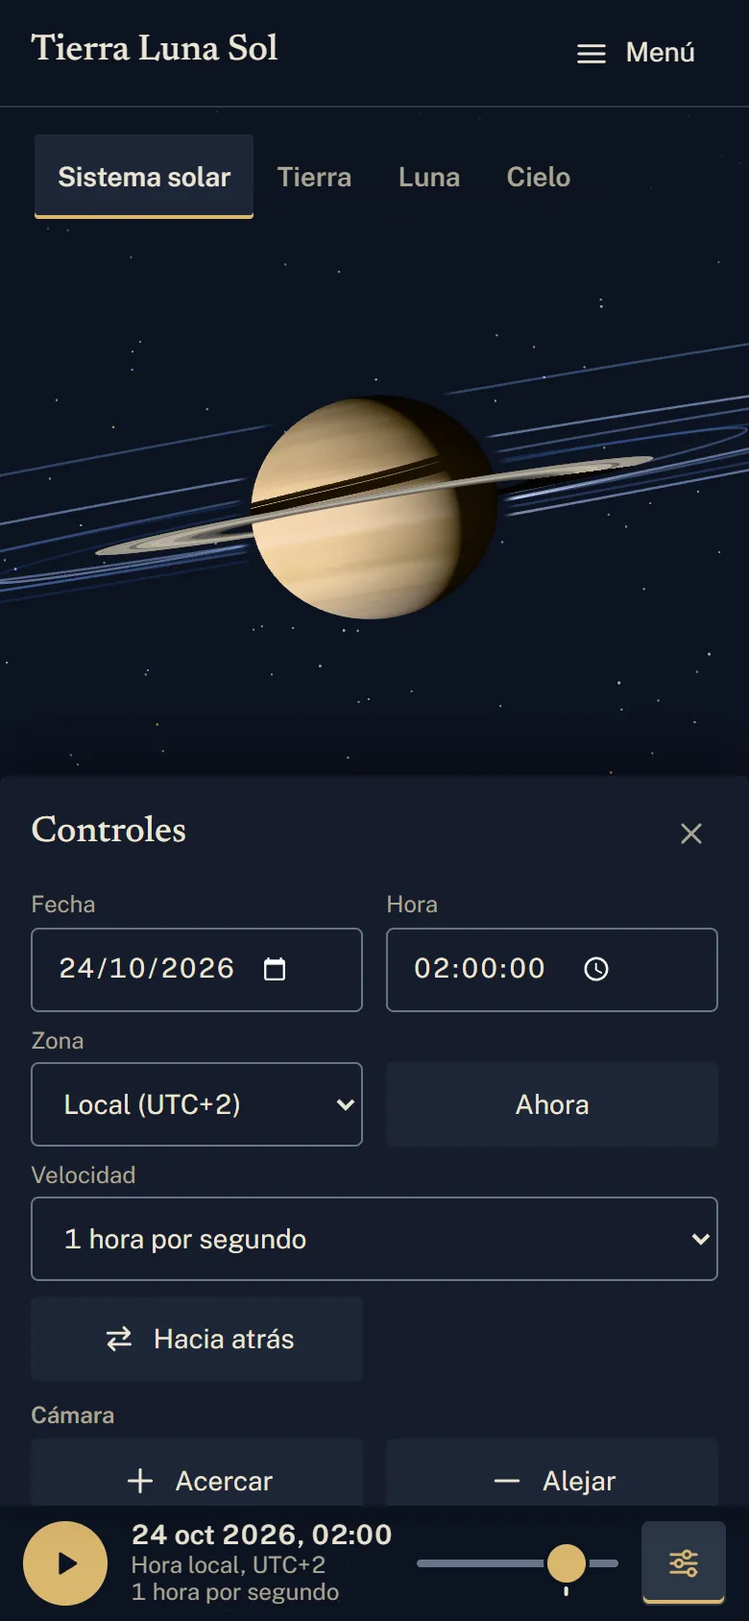
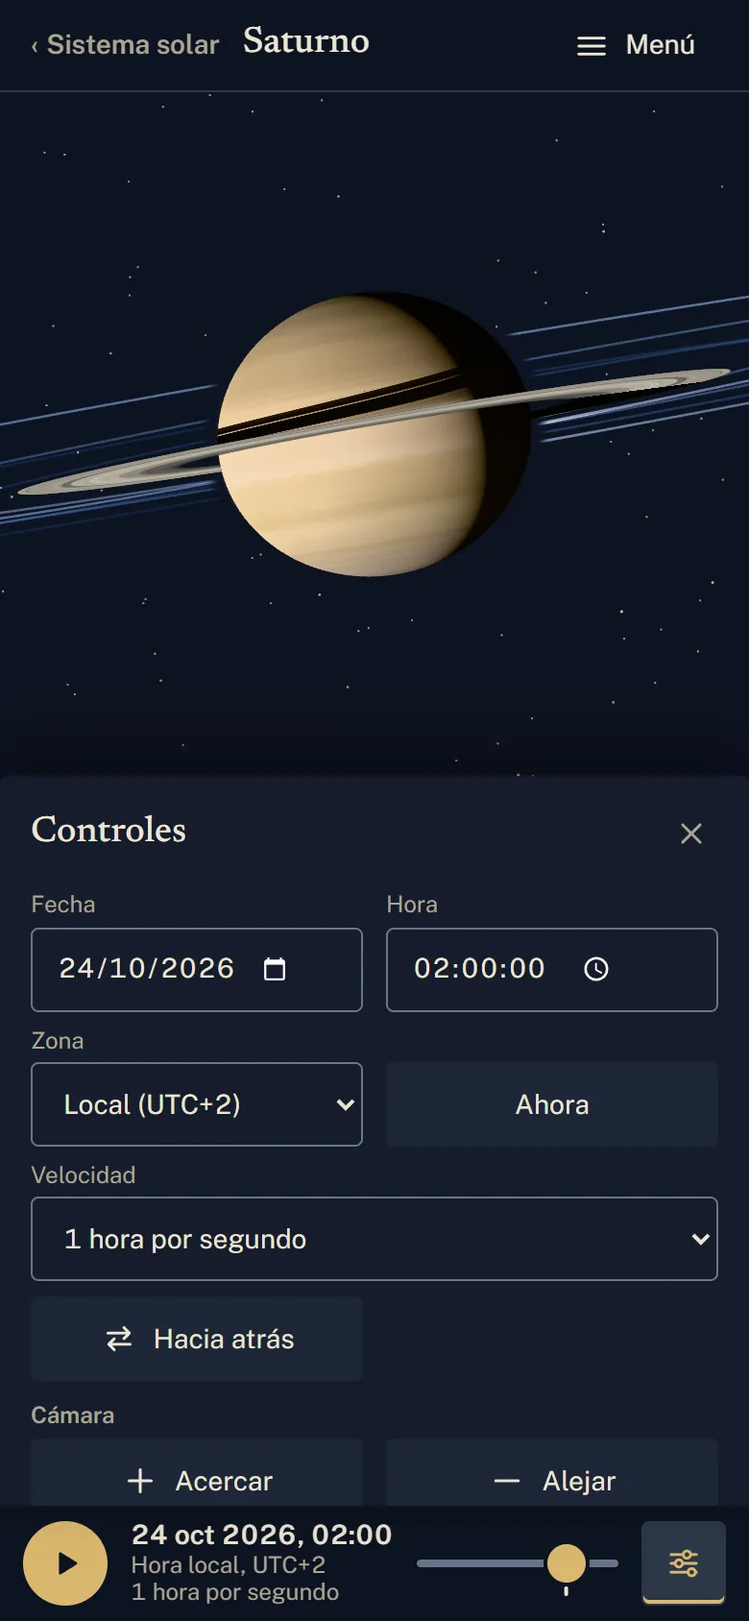
docs: la ficha del móvil, menos invasora (decisión de Iván del 08-11): el informe, DISENO, la adenda y las capturas
- Informe: la sección de la decisión (qué se ha hecho en cada punto, con sus pruebas, y lo encontrado),
  §2 con los criterios nuevos (la barra ≤ 12 %, la zona útil ≥ 70 % con un cuerpo a 390 y 768, el
  cuerpo centrado en el hueco), §4, §6 (747 tests, 130 de 130 e2e, JS inicial 312,64 kB, código propio
  inicial 12,07 kB de 15), §6.2 con la ficha en reposo y el centro del cuerpo, §7, §11 y §12.
- Adenda D47, §4: la línea del cambio del 08-11, que sustituye al criterio de la hoja en reposo.
- DISENO: la ficha (la barra fina y la hoja a demanda) y la franja de arriba, con su boceto.
- Capturas de después del móvil y la tableta, rehechas; nuevas, con la hoja abierta desde la barra.

diff --git a/docs/informes/fase-9c.md b/docs/informes/fase-9c.md
@@ -1,8 +1,8 @@
 # Informe: Fase 9c (la interfaz)
 
 - **Rama:** `fase-9c-interfaz` (desde `main` en `0963b9f`), en el worktree `.claude/worktrees/fase-9c-interfaz-bf1527`
-- **Fecha:** 2026-11-06 (preparación) a 2026-11-08 (las siete tareas, el cierre, la revisión, la decisión de Iván del 07-11 y la tanda de arreglos de la crítica repetida, por decisión de Iván del 08-11)
-- **Estado:** **lista para revisión, sin fusionar** (adenda, §5.3: la sesión de revisión repasa la fase y repite la crítica de impeccable antes de que Iván autorice la fusión). Hechas las tareas 9c.1–9c.7; la revisión por subagente (`docs/revisiones/fase-9c.md`), aplicada, con la decisión de Iván del 07-11 sobre el selector («Respuesta a la revisión», al final); la crítica repetida (`docs/revisiones/fase-9c-critica.md`, 31/40), con sus problemas 1 a 6 y los rápidos arreglados («Respuesta a la crítica», al final; lo demás, al backlog: §10); `npm run check` y los e2e, en verde.
+- **Fecha:** 2026-11-06 (preparación) a 2026-11-08 (las siete tareas, el cierre, la revisión, la decisión de Iván del 07-11, la tanda de arreglos de la crítica repetida y la ficha del móvil, menos invasora: las dos, decisiones de Iván del 08-11)
+- **Estado:** **lista para revisión, sin fusionar** (adenda, §5.3: la sesión de revisión repasa la fase y repite la crítica de impeccable antes de que Iván autorice la fusión). Hechas las tareas 9c.1–9c.7; la revisión por subagente (`docs/revisiones/fase-9c.md`), aplicada, con la decisión de Iván del 07-11 sobre el selector («Respuesta a la revisión», al final); la crítica repetida (`docs/revisiones/fase-9c-critica.md`, 31/40), con sus problemas 1 a 6 y los rápidos arreglados («Respuesta a la crítica», al final; lo demás, al backlog: §10); la ficha del móvil, una barra fina con la hoja a demanda y una sola franja arriba (decisión de Iván del 08-11, al final); `npm run check` y los e2e, en verde.
 
 ## 0. Plan
 
@@ -110,16 +110,16 @@ Los de la adenda (`docs/decisiones/FASE-9c-INTERFAZ.md`, §4), medidos con `scri
 | Criterio | ✅/❌ | Evidencia |
 |---|---|---|
 | **Zona útil del 3D:** 390 × 844, ≥ 65 % en `/` y ≥ 50 % en Tierra, Luna y Cielo; 768 × 1024, ≥ 75 % y ≥ 65 %; 1440 × 900, ≥ 82 % y ≥ 75 % | ✅ | 390: `/` 83,5 % (antes 46,7); Tierra 86,0, Luna 86,2 y Cielo 60,2 % (antes 25,2, 27,4 y 27,7). 768: `/` 87,7 % (59,7); Tierra 84,4, Luna 84,4 y Cielo 69,6 % (40,0, 43,2 y 43,1). 1440: `/` 90,7 % (74,5); Tierra 82,2, Luna 85,9 y Cielo 78,0 % (63,6, 65,9 y 64,1) |
-| **Controles visibles:** en escritorio, ≤ 24 en `/` y ≤ 32 con un cuerpo elegido (≤ 30 en la adenda; ≤ 32 por la decisión de Iván del 07-11, §4); en el móvil, ≤ 16 en cualquier vista | ✅ (la tableta, con el de escritorio: §4) | 1440: 23 en `/`; con un cuerpo, Saturno 32 (30 con la ficha cerrada), Tierra 32, Luna 30 y el Cielo con Saturno 32; el Cielo sin cuerpo, 25 (§4) (antes 37 en `/`, 46 con Saturno, 47 en Tierra, 45 en Luna y 41 en el Cielo). 1024: 23 en `/`; con un cuerpo, Saturno 32 (30 con la ficha cerrada), Tierra 32, Luna 30 y el Cielo con Saturno 32; el Cielo sin cuerpo, 25 (§4). Móvil (390): `/` 16, Saturno 12 (14 con la ficha cerrada), Tierra 13, Luna 14, Cielo 12 (12 con Saturno) y, con «Más» abierto, Tierra 17 y Luna 17 (antes 22, 8, 30, 30 y 26). Tableta (768): de 12 a 28, dentro de los de escritorio; en `/`, 20 Con los arreglos de la crítica (08-11), las mismas cifras: ninguno añade una parada. |
-| **La hoja del cuerpo en el móvil, en reposo:** ≤ 45 % de la pantalla, con el cuerpo visible y la pausa a mano (e2e) | ✅ | 37,3 % a 390 y 28,6 % a 768 (antes 60,2 y 62,3 %, sin la pausa). e2e `movil.spec.ts`, «la ficha, en reposo…»: ≤ 45 %, el encuadre por encima de la hoja (el cuerpo, en el hueco libre) y reproducir pulsable, también con la hoja subida |
+| **Controles visibles:** en escritorio, ≤ 24 en `/` y ≤ 32 con un cuerpo elegido (≤ 30 en la adenda; ≤ 32 por la decisión de Iván del 07-11, §4); en el móvil, ≤ 16 en cualquier vista | ✅ (la tableta, con el de escritorio: §4) | 1440: 23 en `/`; con un cuerpo, Saturno 32 (30 con la ficha cerrada), Tierra 32, Luna 30 y el Cielo con Saturno 32; el Cielo sin cuerpo, 25 (§4) (antes 37 en `/`, 46 con Saturno, 47 en Tierra, 45 en Luna y 41 en el Cielo). 1024: 23 en `/`; con un cuerpo, Saturno 32 (30 con la ficha cerrada), Tierra 32, Luna 30 y el Cielo con Saturno 32; el Cielo sin cuerpo, 25 (§4). Móvil (390): `/` 16, Saturno 12 (14 con la ficha cerrada), Tierra 13, Luna 14, Cielo 12 (12 con Saturno) y, con «Más» abierto, Tierra 17 y Luna 17 (antes 22, 8, 30, 30 y 26). Tableta (768): de 12 a 28, dentro de los de escritorio; en `/`, 20 Con los arreglos de la crítica (08-11), las mismas cifras: ninguno añade una parada. En el móvil y la tableta, con un cuerpo elegido y la barra fina (decisión del 08-11): 7 (antes 12); con la ficha cerrada, 9 a 390 (antes 14). |
+| **La ficha del cuerpo en el móvil, en reposo** (cambio del 08-11, decisión de Iván, que sustituye a «la hoja ≤ 45 %»; adenda, §4): con un cuerpo elegido, la barra fina ≤ 12 % de la pantalla; la interfaz en reposo tapa ≤ 30 % (zona útil del 3D ≥ 70 %) a 390 y a 768; el cuerpo, centrado en el hueco libre; la pausa, a mano (e2e) | ✅ | La barra: 6,9 % a 390 y 5,7 % a 768 (la hoja en reposo de antes: 37,3 y 28,6 %; antes de la fase, 60,2 y 62,3 %). Con Saturno elegido, la zona útil: 90,3 % a 390 y 90,9 % a 768 (con la hoja en reposo, 54,0 y 65,2 %); por alto, la franja de arriba, la barra y la barra de tiempo tapan el 19,7 % y el 16,2 %. El centro del cuerpo en el hueco libre, en alto: +0,9 % a 390 y +1,8 % a 768 (en ancho, −4,5 y −4,6 %: el lado en sombra del planeta no brilla; en escritorio, igual, de −4,0 a −5,6 %). La hoja, abierta: 35,4 % a 390 y 27,1 % a 768, sin nada tapado. e2e `movil.spec.ts`: la barra (≤ 12 %, el encuadre hasta su borde y la pausa a mano), la hoja con un toque, con el dedo y con el teclado, el foco y la franja de arriba |
 | **Los gestos:** el e2e de 9c.1 en verde a 390 y 768 | ✅ | `e2e/gestos.spec.ts`: 2 de 2 (arrastrar sobre el título gira la escena y no selecciona texto) |
 | **Sin solapes:** el script de 9c.4 sin fallos en los cuatro tamaños | ✅ | 0 controles tapados en las 28 vistas (390, 768, 1024 y 1440, también con un cuerpo y la ficha cerrada) y 0 en los 30 estados con «Controles», el Índice o «Más» abiertos (antes, de 12 a 26 tapados con «Controles» abierto en el móvil y en la tableta). 0 recortes: ningún contenedor desbordado, ningún control recortado y ningún lugar del selector cortado (revisión, hallazgos 6, 7 y 18) Con los arreglos de la crítica, igual (el script ya no cuenta como desbordadas las capas de etiquetas de la escena, que recortan a propósito lo que sale del lienzo: §6.2). |
 | **El velo de abajo** (9c.2): ≤ 10 % del lienzo | ✅ | 8,6 % a 390, 7,0 % a 768, 9,6 % a 1024 × 768 y 8,1 % a 1440 (antes, el 19–23 %; a 1024 × 768, el 10,7 % en la primera ronda: §5.5) |
 | **Zonas táctiles:** 44 × 44 en el explorador en el móvil y ≥ 24 × 24 en todas las páginas; nada legible por debajo de 11 px | ✅ en esta fase; ❌ en dos páginas de la otra sesión (§12) | El explorador: ninguna zona pequeña en los cuatro tamaños. Las páginas de esta fase (`/planetas`, `/planetas/marte`, `/lunas`, `/lunas/titan`, `/luna`, `/sol`, `/eclipses`): ninguna (antes, las notas «Fuente N» de 24 × 22). «Sobre el proyecto» (los enlaces «Fase N», 16 px de alto) y los créditos (las licencias, 19 px) son de la 9b. Texto de menos de 11 px: ninguno (antes, los nombres latinos de las constelaciones, 9 px, y «hoy», 10) |
 | **axe sin violaciones en todas las rutas;** el teclado y el lector de pantalla, como hoy o mejor (el orden de Tab, el foco visible y nunca tapado, las alternativas de un solo puntero) | ✅ | `e2e/accesibilidad.spec.ts` (las 40 rutas, los estados del explorador y el explorador en marcha): sin violaciones graves ni críticas. El Tab no se para en lo tapado (`movil.spec.ts`, con la ficha y con «Controles» abiertos); el foco vuelve a «Controles» tras la vista limpia (`camara.spec.ts`); el enlace de la autoría plegada vuelve a verse al recibir el foco; acercar y alejar, con botones en la cámara (escritorio) y en «Controles» (móvil) (`maquetacion.spec.ts`) |
 | **El recorrido:** e2e de que arranca la primera vez; de que «Saltar», `Esc` y un toque lo paran; de que no arranca con movimiento reducido, con `?captura=1` ni con enlaces profundos | ✅ | `e2e/recorrido.spec.ts`: 6 de 6 (además, llega al final y no llena el historial; con una red lenta no arranca si ya se ha elegido un cuerpo; al saltarlo con Intro, el foco no se pierde). Con la crítica del 08-11: «Saltar» y `Esc` llevan a la vista general en marcha (sin «Saltar el viaje» ni anillo de foco tras el ratón), un clic o la rueda lo paran donde está, cada parada lleva su rótulo, la Luna solo si se ve y, al final, «Ahora tú: elige un cuerpo abajo…» |
-| **El presupuesto:** `npm run check` en verde, con el JS inicial y el código propio inicial (15 kB) sin subirlo | ✅ | §6: JS inicial 311,02 kB (aviso a 320; 310,14 antes de la crítica: la placa del recorrido proyecta su botón); código propio inicial 10,96 kB de 15 (antes 14,88). Sin avisos de presupuesto (tampoco de los estilos por componente) |
-| **Capturas antes y después** a 390, 768 y 1440: la portada (también durante el recorrido), Saturno con la hoja en el móvil, la Tierra, la Luna y el Cielo, una ficha completa, `/lunas` y `/eclipses` | ✅ | §7: 24 de antes y 33 de después (rehechas el 08-11 con los arreglos de la crítica; tres de ellas, nuevas: «Controles» abierto con Saturno) |
+| **El presupuesto:** `npm run check` en verde, con el JS inicial y el código propio inicial (15 kB) sin subirlo | ✅ | §6: JS inicial 312,64 kB (aviso a 320; 311,02 antes de la ficha del móvil y 310,14 antes de la crítica); código propio inicial 12,07 kB de 15 (10,96 antes de la ficha del móvil: la franja de la cabecera y `ExplorerFocus`; antes de la fase, 14,88). Sin avisos de presupuesto (tampoco de los estilos por componente) |
+| **Capturas antes y después** a 390, 768 y 1440: la portada (también durante el recorrido), Saturno con la hoja en el móvil, la Tierra, la Luna y el Cielo, una ficha completa, `/lunas` y `/eclipses` | ✅ | §7: 24 de antes y 35 de después (rehechas el 08-11 con la crítica y con la ficha del móvil; nuevas: «Controles» abierto y, en el móvil y la tableta, la hoja abierta desde la barra) |
 | **El detector de impeccable** (`detect --json src/app`), sin hallazgos reales nuevos | ✅ | 6 hallazgos `broken-image`, los mismos falsos positivos de la crítica: `<img>` con `[src]` o `[ngSrc]` de Angular, que el análisis estático lee como «sin src» (`body-chips.html` ×3, uno más que en la primera ronda porque la pastilla de la luna está en las dos filas; `body-detail-page.html`; `body-card.ts` ×2). Repetido el 08-11, tras los arreglos de la crítica: los mismos 6. El motor de la caché (0.1.16), sin descargas |
 | **`docs/DISENO.md`:** los bocetos de escritorio y móvil y la navegación, al día | ✅ | Las reglas de la interfaz (fase 9c), la navegación y los bocetos del visor en escritorio y en el móvil y de la ficha completa; con la decisión de Iván del 07-11, las reglas del selector (planetas y lunas, distintos), el boceto de escritorio con las dos filas y uno del móvil con la fila del sistema y su raya; con la crítica del 08-11, el recorrido y las pistas, los avisos sobre el 3D, lo plegado que se despliega con el foco, el año como mando, «Controles» en el encuadre y como hoja baja (y en horizontal, a la derecha), la placa de los nombres y las migas |
 | **El rendimiento (FPS)** no se mide aquí | — | Se repite al cerrar el bloque, con el PC libre (la otra sesión lo carga) |
@@ -156,6 +156,7 @@ Todas para cumplir los criterios de la adenda sin quitar ninguna función; las d
 - **El Cielo sin cuerpo, en escritorio, con 25 controles:** el tope de 24 es el de `/`; en el Cielo, «Usar mi ubicación», otra vez un botón (hallazgo 5), suma uno a los 24 de antes.
 - **La línea de autoría, solo en la portada**, la «primera pantalla» de la decisión 3. En todas las vistas, el Cielo del teléfono pasaba a 17 controles.
 - **Lo técnico de las fichas, separado (no plegado):** después de lo esencial, bajo el rótulo «Datos técnicos». La adenda deja elegir («plegado o separado»), y así la ficha se sigue leyendo entera sin JavaScript.
+- **La ficha del móvil, una barra fina (decisión de Iván del 08-11; una línea en la adenda, §4):** el criterio de la hoja en reposo (≤ 45 %) pasa a ser otro: con un cuerpo elegido, la barra fina, ≤ 12 % de la pantalla; la interfaz en reposo tapa como mucho el 30 % (zona útil del 3D ≥ 70 %) a 390 y a 768; y el cuerpo, centrado en el hueco libre. Arriba, con un cuerpo elegido, una sola franja («‹ Sistema solar», el nombre y «Menú») en lugar de la cabecera y las pestañas. Para que la cabecera del sitio sepa el cuerpo, `ExplorerFocus` (sin dependencias) pasa de `features/explorer-ui/` a `core/`: el JS inicial sube 1,62 kB y el código propio inicial, de 10,96 a 12,07 kB (de 15).
 - **`--measure` pasa de 68ch a 30em.** Es el ancho de lectura de todo el sitio: también se estrechan los textos de «Sobre el proyecto» y de los créditos (§12).
 - **768 × 1024 (la tableta) se mide con el criterio de escritorio en los controles,** y lleva el selector del PC (el mismo corte, 768 px): la adenda distingue «escritorio» y «móvil». En la portada son 20 controles: ≤ 24 de escritorio sí, ≤ 16 del móvil no (las nueve fichas caben a ese ancho). §2 lo dice en su fila.
 
@@ -262,24 +263,27 @@ Un mapa de la interfaz antes de cambiarla, para la adenda y para el plan de §0.
 
 ## 6. Salida de los checks
 
-**Al cerrar** (el código final, con la revisión, la decisión de Iván del 07-11 y los arreglos de la crítica; 08-11):
+**Al cerrar** (el código final, con la revisión, la decisión de Iván del 07-11, los arreglos de la crítica y la ficha del móvil; 08-11):
 
 ```
 npm run check
 - lint y Prettier: «All files pass linting.»
-- tests: 742 de 742 en 78 ficheros (antes de la fase, 715 en 75), sin avisos; cobertura de ephemeris/:
+- tests: 747 de 747 en 79 ficheros (antes de la fase, 715 en 75), sin avisos; cobertura de ephemeris/:
   98,9 % de sentencias, 93,85 % de ramas, 100 % de funciones y 99,76 % de líneas
 - build: 40 rutas prerenderizadas, sin avisos de presupuesto (tampoco de los estilos por componente)
-  JS inicial 311,02 kB, 88,44 kB comprimido (antes de la crítica, 310,14; antes de la fase, 314,23)
+  JS inicial 312,64 kB, 88,85 kB comprimido (antes de la ficha del móvil, 311,02; antes de la crítica,
+  310,14; antes de la fase, 314,23)
 - check-initial-bundle: ninguna de las 40 páginas lleva three, astronomy-engine, los stores ni los
-  controles del visor en su JS inicial; código propio inicial, 10,96 kB de 15 (antes 14,88: los
-  estilos de la cabecera, de app.css a styles.css)
+  controles del visor en su JS inicial; código propio inicial, 12,07 kB de 15 (10,96 antes de la
+  ficha del móvil: la franja de la cabecera y ExplorerFocus; antes de la fase, 14,88)
 - check-links: 1216 enlaces internos bien (antes 1161: la ficha anterior y la siguiente, y las migas
   de /eclipses)
 
-npx playwright test (E2E_PORT=4401, SwiftShader): 128 de 128 en 7,0 min, con los dos proyectos (antes de la fase, 107)
+npx playwright test (E2E_PORT=4401, SwiftShader): 130 de 130 en 7,1 min, con los dos proyectos (antes de la fase, 107)
 impeccable detect --json src/app (el motor 0.1.16 de la caché): 6 «broken-image», falsos positivos (§2)
 ```
+
+Antes de la ficha del móvil (con la tanda de la crítica, 08-11): 742 tests en 78 ficheros, JS inicial 311,02 kB y 128 de 128 e2e.
 
 Tras la revisión (08-11, antes de la crítica): 738 tests en 78 ficheros, JS inicial 310,14 kB y 122 de 122 e2e.
 
@@ -329,40 +333,40 @@ Coincide con la crítica: de 37 a 47 controles a la vista en escritorio, y en el
 
 ### 6.2 La interfaz después, medida
 
-Con el mismo script y las mismas condiciones que §6.1 (`scripts/measure-ui.mjs`, `?captura=1`, 390 y 768 táctiles, 1024 y 1440 con ratón), sobre el build final (08-11, con la revisión, la decisión de Iván del 07-11 y los arreglos de la crítica). Entre paréntesis, antes (con este mismo script sobre el build de `main`; las dos vistas con la ficha cerrada no se midieron entonces). «Velo»: la parte del lienzo bajo el fondo de la barra de tiempo (9c.2, ≤ 10 %). «Recortes»: contenedores que se desbordan en horizontal, controles recortados y opciones del selector que no caben.
+Con el mismo script y las mismas condiciones que §6.1 (`scripts/measure-ui.mjs`, `?captura=1`, 390 y 768 táctiles, 1024 y 1440 con ratón), sobre el build final (08-11, con la revisión, la decisión de Iván del 07-11, los arreglos de la crítica y la ficha del móvil). «La ficha en reposo»: en el móvil y la tableta, la barra fina (decisión del 08-11; antes de ella, la hoja en reposo, 37,3 y 28,6 %). «Centro del cuerpo»: el centroide de lo que brilla en una captura del hueco libre, respecto a su centro, en fracción de su ancho y de su alto (el lado en sombra no brilla: en ancho sale un −4 o −5 % en todos los tamaños). Entre paréntesis, antes (con este mismo script sobre el build de `main`; las dos vistas con la ficha cerrada no se midieron entonces). «Velo»: la parte del lienzo bajo el fondo de la barra de tiempo (9c.2, ≤ 10 %). «Recortes»: contenedores que se desbordan en horizontal, controles recortados y opciones del selector que no caben.
 
-| Tamaño | Vista | Zona útil | Velo | Controles visibles | Tapados | Recortes | Zonas < objetivo | Textos < 11 px | Contraste de los nombres | La hoja del cuerpo (alto, la pausa) |
-|---|---|---|---|---|---|---|---|---|---|---|
-| 390 | portada | 83,5 % (46,7) | 8,6 % | 16 (22) | 0 | 0 | 0 | 0 (1) | 5,4:1 | — |
-| 390 | Saturno | 54,0 % (24,8) | 8,6 % | 12 (8) | 0 | 0 | 0 | 0 (0) | — | 37,3 %, a mano (60,2 %, no) |
-| 390 | Saturno, sin ficha | 84,5 % | 8,6 % | 14 | 0 | 0 | 0 | 0 | 6,2:1 | — |
-| 390 | Tierra | 86,0 % (25,2) | 8,6 % | 13 (30) | 0 | 0 | 0 | 0 (1) | — | — |
-| 390 | Luna | 86,2 % (27,4) | 8,6 % | 14 (30) | 0 | 0 | 0 | 0 (1) | — | — |
-| 390 | Cielo | 60,2 % (27,7) | 8,6 % | 12 (26) | 0 | 0 | 0 (2) | 0 (4) | — | — |
-| 390 | Cielo, Saturno sin ficha | 59,9 % | 8,6 % | 12 | 0 | 0 | 0 | 0 | — | — |
-| 768 | portada | 87,7 % (59,7) | 7,0 % | 20 (26) | 0 | 0 | 0 | 0 (1) | 5,4:1 | — |
-| 768 | Saturno | 65,2 % (25,2) | 7,0 % | 12 (9) | 0 | 0 | 0 | 0 (0) | — | 28,6 %, a mano (62,3 %, no) |
-| 768 | Saturno, sin ficha | 84,3 % | 7,0 % | 27 | 0 | 0 | 0 | 0 | 5,4:1 | — |
-| 768 | Tierra | 84,4 % (40,0) | 7,0 % | 25 (36) | 0 | 0 | 0 | 0 (1) | 5,4:1 | — |
-| 768 | Luna | 84,4 % (43,2) | 7,0 % | 24 (34) | 0 | 0 | 0 | 0 (1) | 5,4:1 | — |
-| 768 | Cielo | 69,6 % (43,1) | 7,0 % | 21 (30) | 0 | 0 | 0 (2) | 0 (6) | 5,4:1 | — |
-| 768 | Cielo, Saturno sin ficha | 65,3 % | 7,0 % | 28 | 0 | 0 | 0 | 0 | 5,4:1 | — |
-| 1024 | portada | 87,1 % (63,9) | 9,6 % | 23 (37) | 0 | 0 | 0 | 0 (1) | 5,4:1 | — |
-| 1024 | Saturno | 59,5 % (42,4) | 9,6 % | 32 (46) | 0 | 0 | 0 | 0 (1) | 5,4:1 | — (la tarjeta de la derecha) |
-| 1024 | Saturno, sin ficha | 83,5 % | 9,6 % | 30 | 0 | 0 | 0 | 0 | 5,4:1 | — |
-| 1024 | Tierra | 73,3 % (49,6) | 9,6 % | 32 (47) | 0 | 0 | 0 (1) | 0 (1) | 5,4:1 | — |
-| 1024 | Luna | 78,9 % (52,4) | 9,6 % | 30 (45) | 0 | 0 | 0 | 0 (1) | 5,4:1 | — |
-| 1024 | Cielo | 72,1 % (52,9) | 9,6 % | 25 (41) | 0 | 0 | 0 (2) | 0 (7) | 5,4:1 | — |
-| 1024 | Cielo, Saturno sin ficha | 65,2 % | 9,6 % | 32 | 0 | 0 | 0 | 0 | 5,4:1 | — |
-| 1440 | portada | 90,7 % (74,5) | 8,1 % | 23 (37) | 0 | 0 | 0 | 0 (1) | 5,4:1 | — |
-| 1440 | Saturno | 70,6 % (55,3) | 8,1 % | 32 (46) | 0 | 0 | 0 | 0 (1) | 5,4:1 | — (la tarjeta de la derecha) |
-| 1440 | Saturno, sin ficha | 88,8 % | 8,1 % | 30 | 0 | 0 | 0 | 0 | 5,4:1 | — |
-| 1440 | Tierra | 82,2 % (63,6) | 8,1 % | 32 (47) | 0 | 0 | 0 (1) | 0 (1) | 5,4:1 | — |
-| 1440 | Luna | 85,9 % (65,9) | 8,1 % | 30 (45) | 0 | 0 | 0 | 0 (1) | 5,4:1 | — |
-| 1440 | Cielo | 78,0 % (64,1) | 8,1 % | 25 (41) | 0 | 0 | 0 (2) | 0 (7) | 5,4:1 | — |
-| 1440 | Cielo, Saturno sin ficha | 73,8 % | 8,1 % | 32 | 0 | 0 | 0 | 0 | 5,4:1 | — |
+| Tamaño | Vista | Zona útil | Velo | Controles visibles | Tapados | Recortes | Zonas < objetivo | Textos < 11 px | Contraste de los nombres | La ficha en reposo (alto, la pausa) | Centro del cuerpo (Δx, Δy) |
+|---|---|---|---|---|---|---|---|---|---|---|---|
+| 390 | portada | 83,5 % (46,7) | 8,6 % | 16 (22) | 0 | 0 | 0 | 0 (1) | 5,4:1 | — | — |
+| 390 | Saturno | 90,3 % (24,8) | 8,5 % | 7 (8) | 0 | 0 | 0 | 0 (0) | — | 6,9 %, a mano (60,2 %, no) | −4,5 % / +0,9 % |
+| 390 | Saturno, sin ficha | 89,7 % | 8,5 % | 9 | 0 | 0 | 0 | 0 | 6,2:1 | — | −4,5 % / +0,9 % |
+| 390 | Tierra | 86,0 % (25,2) | 8,6 % | 13 (30) | 0 | 0 | 0 | 0 (1) | — | — | — |
+| 390 | Luna | 86,2 % (27,4) | 8,6 % | 14 (30) | 0 | 0 | 0 | 0 (1) | — | — | — |
+| 390 | Cielo | 60,2 % (27,7) | 8,6 % | 12 (26) | 0 | 0 | 0 (2) | 0 (4) | — | — | — |
+| 390 | Cielo, Saturno sin ficha | 59,9 % | 8,6 % | 12 | 0 | 0 | 0 | 0 | — | — | — |
+| 768 | portada | 87,7 % (59,7) | 7,0 % | 20 (26) | 0 | 0 | 0 | 0 (1) | 5,4:1 | — | — |
+| 768 | Saturno | 90,9 % (25,2) | 7,0 % | 7 (9) | 0 | 0 | 0 | 0 (0) | — | 5,7 %, a mano (62,3 %, no) | −4,6 % / +1,8 % |
+| 768 | Saturno, sin ficha | 86,5 % | 7,0 % | 22 | 0 | 0 | 0 | 0 | 5,4:1 | — | −4,6 % / +2,1 % |
+| 768 | Tierra | 84,4 % (40,0) | 7,0 % | 25 (36) | 0 | 0 | 0 | 0 (1) | 5,4:1 | — | — |
+| 768 | Luna | 84,4 % (43,2) | 7,0 % | 24 (34) | 0 | 0 | 0 | 0 (1) | 5,4:1 | — | — |
+| 768 | Cielo | 69,6 % (43,1) | 7,0 % | 21 (30) | 0 | 0 | 0 (2) | 0 (6) | 5,4:1 | — | — |
+| 768 | Cielo, Saturno sin ficha | 65,3 % | 7,0 % | 28 | 0 | 0 | 0 | 0 | 5,4:1 | — | — |
+| 1024 | portada | 87,1 % (63,9) | 9,6 % | 23 (37) | 0 | 0 | 0 | 0 (1) | 5,4:1 | — | — |
+| 1024 | Saturno | 59,5 % (42,4) | 9,6 % | 32 (46) | 0 | 0 | 0 | 0 (1) | 5,4:1 | — (la tarjeta de la derecha) | −5,6 % / −0,2 % |
+| 1024 | Saturno, sin ficha | 83,5 % | 9,6 % | 30 | 0 | 0 | 0 | 0 | 5,4:1 | — | −4,8 % / −0,1 % |
+| 1024 | Tierra | 73,3 % (49,6) | 9,6 % | 32 (47) | 0 | 0 | 0 (1) | 0 (1) | 5,4:1 | — | — |
+| 1024 | Luna | 78,9 % (52,4) | 9,6 % | 30 (45) | 0 | 0 | 0 | 0 (1) | 5,4:1 | — | — |
+| 1024 | Cielo | 72,1 % (52,9) | 9,6 % | 25 (41) | 0 | 0 | 0 (2) | 0 (7) | 5,4:1 | — | — |
+| 1024 | Cielo, Saturno sin ficha | 65,2 % | 9,6 % | 32 | 0 | 0 | 0 | 0 | 5,4:1 | — | — |
+| 1440 | portada | 90,7 % (74,5) | 8,1 % | 23 (37) | 0 | 0 | 0 | 0 (1) | 5,4:1 | — | — |
+| 1440 | Saturno | 70,6 % (55,3) | 8,1 % | 32 (46) | 0 | 0 | 0 | 0 (1) | 5,4:1 | — (la tarjeta de la derecha) | −4,4 % / +0,6 % |
+| 1440 | Saturno, sin ficha | 88,8 % | 8,1 % | 30 | 0 | 0 | 0 | 0 | 5,4:1 | — | −4,0 % / +0,6 % |
+| 1440 | Tierra | 82,2 % (63,6) | 8,1 % | 32 (47) | 0 | 0 | 0 (1) | 0 (1) | 5,4:1 | — | — |
+| 1440 | Luna | 85,9 % (65,9) | 8,1 % | 30 (45) | 0 | 0 | 0 | 0 (1) | 5,4:1 | — | — |
+| 1440 | Cielo | 78,0 % (64,1) | 8,1 % | 25 (41) | 0 | 0 | 0 (2) | 0 (7) | 5,4:1 | — | — |
+| 1440 | Cielo, Saturno sin ficha | 73,8 % | 8,1 % | 32 | 0 | 0 | 0 | 0 | 5,4:1 | — | — |
 
-- **Con «Controles», el Índice o «Más» abiertos** (30 estados, en los cuatro tamaños): 0 controles tapados y 0 recortes (antes, con «Controles» abierto, 12 tapados en la portada del móvil, 20 en Tierra y Luna y 16 en el Cielo; en la tableta, de 16 a 26). En el móvil, 17 controles con «Más» abierto en Tierra y en Luna, y 17 o 18 con «Controles» (23 antes de la crítica, con la hoja más alta).
+- **Con «Controles», el Índice, «Más» o la hoja de la ficha abiertos** (32 estados, en los cuatro tamaños): 0 controles tapados y 0 recortes (antes, con «Controles» abierto, 12 tapados en la portada del móvil, 20 en Tierra y Luna y 16 en el Cielo; en la tableta, de 16 a 26). En el móvil, 17 controles con «Más» abierto en Tierra y en Luna, y de 14 a 18 con «Controles» (23 antes de la crítica, con la hoja más alta). La hoja de la ficha, abierta desde la barra (decisión del 08-11): 35,4 % de la pantalla a 390 y 27,1 % a 768, con 9 controles y una zona útil del 60,3 y el 68,9 %.
 - **«Contraste de los nombres»:** el de los nombres de la fila sobre su placa, en el peor caso (blanco o negro detrás; crítica de la 9c, ≥ 4,5:1). «—»: sin fichas a la vista (Tierra, Luna y el Cielo en el teléfono, o con la hoja de la ficha).
 - **Las capas de etiquetas de la escena** (`.scene-labels` y `.sky-labels`, de `scene/labels.ts`) ya no cuentan como contenedores desbordados: recortan a propósito lo que sale del lienzo. Con esta tanda, a 768 en el Cielo con Saturno, un rótulo en el borde la hacía salir «desbordada» (778 > 768).
 - **Las páginas** (390 y 1440, la página entera): ninguna zona de menos de 24 px, ningún texto de menos de 11 ni ningún recorte en `/planetas`, `/planetas/marte`, `/lunas`, `/lunas/titan`, `/luna`, `/sol` y `/eclipses` (antes, de 9 a 21 notas «Fuente N» de 24 × 22 en cada ficha). En «Sobre el proyecto» (390: 12, 1440: 14 enlaces «Fase N» de 16 px de alto; a 390, además, su diagrama y dos tablas, que se desplazan en horizontal) y en los créditos (390: 5, 1440: 5 licencias de 19 px): de la otra sesión (§12).
@@ -370,7 +374,7 @@ Con el mismo script y las mismas condiciones que §6.1 (`scripts/measure-ui.mjs`
 
 ## 7. Capturas
 
-En `docs/informes/img/fase-9c/`, con `scripts/capture-interface.mjs` (`CAPTURE_PORT=4350`, de una en una): `antes-<tamaño>-<vista>.webp` (24, del build de `main`) y `despues-<tamaño>-<vista>.webp` (33, rehechas el 08-11 sobre el build final, con los arreglos de la crítica). Tamaños 390 (móvil, ×2), 768 (tableta) y 1440 (escritorio); vistas `portada`, `saturno` (con la hoja en el móvil), `saturno-fichas` (solo después: el selector con Saturno elegido y la ficha cerrada, la decisión de Iván del 07-11: dos filas en la tableta y el PC, una con la raya en el móvil), `saturno-controles` (solo después: «Controles» abierto con Saturno; en el PC, la cámara aparta el planeta a la izquierda del panel; en el móvil y la tableta, la hoja baja con el 3D encima), `tierra`, `luna`, `cielo` (las del explorador, con `?captura=1`), `ficha-marte`, `lunas` y `eclipses` (la página entera) y, solo después, `recorrido` (la portada a los 6 s del recorrido, con el rótulo de su parada y «Saltar el recorrido», junto a la fila).
+En `docs/informes/img/fase-9c/`, con `scripts/capture-interface.mjs` (`CAPTURE_PORT=4350`, de una en una): `antes-<tamaño>-<vista>.webp` (24, del build de `main`) y `despues-<tamaño>-<vista>.webp` (35, rehechas el 08-11 sobre el build final, con los arreglos de la crítica y la ficha del móvil). Tamaños 390 (móvil, ×2), 768 (tableta) y 1440 (escritorio); vistas `portada`, `saturno` (en el móvil y la tableta, desde el 08-11, con la barra fina y la franja de arriba), `saturno-fichas` (solo después: el selector con Saturno elegido y la ficha cerrada, la decisión de Iván del 07-11: dos filas en la tableta y el PC, una con la raya en el móvil), `saturno-hoja` (solo después, a 390 y 768: la hoja de la ficha abierta desde la barra fina; decisión de Iván del 08-11), `saturno-controles` (solo después: «Controles» abierto con Saturno; en el PC, la cámara aparta el planeta a la izquierda del panel; en el móvil y la tableta, la hoja baja con el 3D encima), `tierra`, `luna`, `cielo` (las del explorador, con `?captura=1`), `ficha-marte`, `lunas` y `eclipses` (la página entera) y, solo después, `recorrido` (la portada a los 6 s del recorrido, con el rótulo de su parada y «Saltar el recorrido», junto a la fila).
 
 ## 8. Dependencias añadidas
 
@@ -379,7 +383,7 @@ Ninguna.
 ## 9. Pendientes y `TODO(ivan)`
 
 `docs/PENDIENTES.md` es de la otra sesión mientras trabaja: lo que haya que apuntar allí va en §12.
-- **Para Iván:** revisar los textos nuevos de la interfaz (§12, «Los textos nuevos» y «Los textos nuevos de la crítica»); probar en el móvil la hoja de dos alturas, las filas desplazables, el recorrido, las pistas y «Controles» como hoja baja (no bloquea); y decidir si quiere el año también en la barra del teléfono (§10).
+- **Para Iván:** revisar los textos nuevos de la interfaz (§12, «Los textos nuevos» y «Los textos nuevos de la crítica»); probar en el móvil la barra fina de la ficha y su hoja (con el dedo: deslizarla hacia arriba y hacia abajo), la franja de arriba, las filas desplazables, el recorrido, las pistas y «Controles» como hoja baja (no bloquea); y decidir si quiere el año también en la barra del teléfono (§10).
 - **La crítica de impeccable, otra vez:** la repitió la sesión de revisión el 08-11 (31/40, `docs/revisiones/fase-9c-critica.md`); tras esta tanda, repasa solo lo que cambia (su recomendación, punto 2). El rendimiento (FPS), al cerrar el bloque con el PC libre.
 - **Para decidir con la sesión de revisión e Iván** (§4): el Cielo del móvil sin fichas (su selector es «Esta noche»); el Cielo de escritorio sin cuerpo, con 25 controles; «Más» y «Controles» abiertos en el móvil, por encima de 16; y las sugerencias 19a (la cabecera compacta del explorador también en escritorio) y 19c (la tableta, medida con el tope de escritorio).
 
@@ -424,7 +428,7 @@ npm run build && CAPTURE_PORT=4350 node scripts/serve-dist.mjs   # http://127.0.
 
 Qué mirar:
 - `/` en una ventana privada (la primera vez): el recorrido de unos 30 s, con su rótulo junto a la fila («1 de 4 · Saturno y sus anillos») y «Saltar el recorrido», que lleva a la vista general en marcha; al acabar, «Ahora tú: elige un cuerpo abajo…», 7 s; la línea de autoría se pliega a los 8 s.
-- Elegir Saturno: el título (y el de la pestaña del navegador) dice «Saturno», con «‹ Sistema solar»; en el PC, sus lunas, en pastillas, encima de los planetas; en el móvil, la ficha sube hasta la mitad, con la pausa debajo, y «Ver los datos» la sube entera; al cerrarla, la fila de su sistema, con la raya.
+- Elegir Saturno: el título (y el de la pestaña del navegador) dice «Saturno», con «‹ Sistema solar»; en el PC, sus lunas, en pastillas, encima de los planetas; en el móvil, arriba una sola franja («‹ Sistema solar», «Saturno» y «Menú») y abajo solo una barra fina («Ver ficha»): un toque, o deslizarla hacia arriba, abre la hoja (el resumen y «Ficha completa»), y «Ver los datos» la sube entera; deslizarla hacia abajo, o Esc, la devuelve a la barra; al cerrarla (×), la fila de su sistema, con la raya.
 - Tierra, Luna y Cielo en el móvil: el panel en una fila con «Más»; el Cielo, con el resumen de lo que hay sobre el horizonte, «Usar mi ubicación» y «Esta noche». En el PC, Tierra y Luna con los planetas y la Luna encima.
 - «Controles»: el tiempo, la cámara y la escena; «Ver el recorrido». En el PC, abierto, la cámara aparta el cuerpo; en el móvil, una hoja baja con el 3D encima.
 - El año en la barra (PC y tableta): «‹ 2026 ›», y mantenido, por décadas; con el teclado, Mayús + Re Pág y Av Pág en la línea del año.
@@ -463,6 +467,8 @@ Lo que esta fase necesita del lado de la 9b (o lo que hay que repasar al juntar 
   - **una precarga de texturas en la API de la escena** (`scene/index.ts`, `scene/textures.ts`), para que el recorrido pida la Tierra y la Luna durante la parada de Saturno: si la textura llega tarde, se ve una esfera azul lisa. La interfaz la llamaría desde `runTour` (`features/tour/home-tour.ts`);
   - **los nombres de los lugares sobre los puntos de España** (los marcadores de la vista guiada, `earth-markers`): hoy los dice el rótulo de la parada del recorrido.
 - **Los textos nuevos de la crítica** (`reviewed: false`): los rótulos del recorrido («1 de 4 · Saturno y sus anillos», «La Tierra», «España y los lugares del cielo: el Montsec, Fabra, Calar Alto, Madrid, Fraga, el Teide y el Roque de los Muchachos», «La Luna», «El sistema solar, en marcha»; con la Luna casi nueva, «… de 3»), su anuncio («Recorrido de unos 30 segundos: Saturno, la Tierra y la Luna. Pulsa «Saltar» o cualquier tecla para pararlo.»), las pistas («Ahora tú: elige un cuerpo abajo · arrastra para girar · usa la rueda para acercarte», o «pellizca para acercarte»), las flechas del año («Año anterior (Mayús + Av Pág)», «Año siguiente (Mayús + Re Pág)»), la descripción de la línea del año («Flechas, un día; Re Pág y Av Pág, un mes; con Mayús, un año; Inicio y Fin, el principio o el final del año.») y las migas de `/eclipses` («Inicio › Eclipses»).
+- **Los textos nuevos de la ficha del móvil** (`reviewed: false`; decisión de Iván del 08-11): «Ver ficha» y «Ver menos» (la barra fina), y su línea, que se compone con el tipo y el primer dato de la ficha («Planeta · Radio ecuatorial: 60.268 km»).
+- **`ExplorerFocus` pasa a `core/explorer-focus.ts`** (decisión de Iván del 08-11: la cabecera del sitio lo lee para la franja del cuerpo elegido). Si la 9b lo importa desde `features/explorer-ui/`, al fusionar cambia la ruta.
 - **Las pistas, junto a la fila:** los scripts que abren `/` sin `?captura=1` las verán 7 s al acabar o saltar el recorrido (o, sin recorrido, al pintarse el 3D), salvo con `localStorage['tls.pistas'] = 'visto'`.
 - **Al fusionar** (adenda, §5.3): D47 en el plan (§2 y la fase), con el criterio de controles de la decisión de Iván del 07-11 (≤ 32 con un cuerpo elegido), una línea en `PENDIENTES.md` y otra en el `DIARIO`.
 
@@ -526,3 +532,26 @@ La crítica repetida (`docs/revisiones/fase-9c-critica.md`: 31/40, a un punto de
 - `/eclipses` usaba `--space-5`, que no existe en la escala (1, 2, 3, 4, 6, 8…): el margen del selector y el de las fuentes se quedaban en 0. Ahora, `--space-6`. Una búsqueda de variables sin definir en `src/` no encuentra otra;
 - la placa del recorrido proyecta su botón (`<ng-content>`): el JS inicial sube 0,88 kB (311,02 kB, con el aviso a 320), porque las instrucciones de proyección van al chunk compartido inicial. El código propio inicial no cambia (10,96 kB de 15);
 - con la ficha y «Controles» abiertos a 1024, el encuadre libre queda en 240 px: Saturno se ve, pequeño, en vez de quedar tapado por el panel; y el rótulo 3D de «Saturno» cae sobre el título de la presentación (es de la escena: §12).
+
+## Decisión de Iván del 08-11: la ficha del móvil, menos invasora
+
+Iván, tras probar la vista previa: «sobre todo cuando clicas algún planeta… abajo salta, es muy invasor». La sesión de revisión lo midió a 375 × 812, con la Tierra y Saturno elegidos: la hoja en reposo ocupaba el 37 % de la pantalla y, con la cabecera y las pestañas (otro 14 %) y la barra de tiempo, casi el 60 % quedaba tapado, con el planeta apretado arriba y la descripción entera a la vista. Se ha hecho después de la tanda de la crítica, en esta rama y sin fusionar, solo en el móvil y la tableta (por debajo de 64 rem, el corte de las hojas). Los commits: `1b176b2` (la barra fina y la hoja a demanda), `edfb195` (la franja de arriba), `cc6f430` (las medidas y las capturas) y el de este informe, DISENO y la adenda.
+
+| Lo que pedía | Qué se ha hecho | Evidencia |
+|---|---|---|
+| 1. Al elegir un cuerpo, solo una barra fina (≤ 12 %) | `tls-body-bar` (`features/body-panel/body-bar.ts`), encima de la barra de tiempo: el nombre, el tipo y un dato clave (el radio: «Planeta · Radio ecuatorial: 60.268 km»), «Ver ficha» y ×, sin la descripción. El dato es uno que no cambia: el nombre del botón no se mueve mientras corre la simulación. Las fichas de la fila, ocultas tras ella como antes tras la hoja | `measure-ui.mjs`: 6,9 % a 390 y 5,7 % a 768 |
+| 2. La hoja a media pantalla, solo si se pide | Un toque o Intro en la barra (es «Ver ficha»), o deslizarla hacia arriba: la hoja, con el resumen, «Ficha completa» y «Ver los datos» (que la sube entera). Deslizarla hacia abajo (la barra o su tirador), o Esc, la devuelve a la barra; con la barra, deslizar hacia abajo cierra la ficha. Con movimiento reducido, sin animación (las duraciones, a 0) | e2e (un toque, el dedo y el teclado); `measure-ui.mjs`, estado «ficha»: la hoja, 35,4 % a 390 y 27,1 % a 768, sin nada tapado |
+| 3. Arriba, una sola franja | La cabecera del sitio, de 3 rem, con «‹ Sistema solar», el nombre y «Menú», en lugar de la cabecera y las pestañas. Las pestañas, «‹ Sistema solar» de la presentación y la autoría salen; el H1 y su tipo quedan para el lector. La cabecera lee el cuerpo de `ExplorerFocus`, que pasa a `core/` | e2e «con un cuerpo elegido, arriba, una sola franja…»: la cabecera, ≤ 49 px; el menú, a mano; «‹ Sistema solar» la quita |
+| 4. La pausa, siempre a mano | La barra fina y la hoja, encima de la barra de tiempo | e2e: reproducir se pulsa con la barra y con la hoja abierta (también con las animaciones congeladas) |
+| 5. La accesibilidad, igual o mejor | La barra es un botón con `aria-expanded` y `aria-controls` (el resumen, `#card-body`); el foco va a la barra al elegir (también con el teclado, desde el índice), al abrir la hoja a su contenido (`tabindex="-1"`) y, con Esc, de vuelta a la barra; lo que no se ve no está en el orden del foco | e2e del teclado y del foco (a 390 y a 768, ninguna parada en algo que no se ve); axe sin violaciones con la barra y con la hoja abierta |
+
+**Los criterios nuevos** (en §2, en lugar del de la hoja en reposo, y en la adenda, §4): con un cuerpo elegido, la barra fina, ≤ 12 % (6,9 y 5,7 %); la interfaz en reposo, ≤ 30 % (zona útil del 90,3 y el 90,9 %; por alto, el 19,7 y el 16,2 %); el cuerpo, centrado en el hueco libre (en alto, +0,9 y +1,8 %).
+
+**Con «Controles» (el punto 6 de la crítica), no choca:** con «Controles» abierto, la barra y la hoja se ocultan, como antes la hoja, y las dos siguen el mismo patrón: suben sobre la barra de tiempo, no pasan de media pantalla, Esc las cierra y el foco vuelve a su botón.
+
+**Encontrado al hacerlo:**
+- el encuadre contaba lo que estaba oculto (las fichas tras la barra, `visibility: hidden`): con la barra fina, el cuerpo quedaba 6 px (a 390) y 34 px (a 768) por encima del centro del hueco. Ya no cuenta;
+- el comprobador del bundle inicial no deja nada de `features/explorer-ui/` en el JS inicial: `ExplorerFocus`, que es una señal sin dependencias, pasa a `core/`. El JS inicial sube 1,62 kB (312,64) y el código propio inicial, a 12,07 kB de 15;
+- en los e2e, un gesto emulado demasiado rápido es para Chrome un lanzamiento, y el toque siguiente solo lo para (sin clic): el gesto de los e2e lleva los tiempos de un dedo;
+- con la barra hay menos paradas del tabulador: el e2e que buscaba lo último fuera de la ficha seis paradas más allá acababa en la cabecera, fuera del explorador; ahora, tres;
+- el tirador captura el puntero, como la barra: con el ratón (en una tableta con ratón), soltar fuera de él también cuenta.

diff --git a/docs/DISENO.md b/docs/DISENO.md
@@ -191,18 +191,30 @@ Las cifras y las fechas del boceto son marcadores.
 │     Hora local · 3 días/s      │     de tiempo en una fila
 └────────────────────────────────┘
 ```
-En el teléfono (< 768 px), con un planeta con lunas elegido (y la ficha cerrada), la fila es la de su sistema; en la tableta, como en el PC, dos filas:
+Con un cuerpo elegido (decisión de Iván del 08-11), arriba, una sola franja en lugar de la cabecera y las pestañas; al elegirlo, abajo, solo una barra fina, que abre la hoja de su ficha:
 ```
 ┌────────────────────────────────┐
-│ ‹ Sistema solar                │ ← el título dice el cuerpo, con
-│ Saturno                        │    «‹ Sistema solar» para volver
+│ ‹ Sistema solar  Saturno ≡ Menú│ ← una sola franja (3 rem): la
+│                                │    cabecera y las pestañas, fuera
+│              (♄)               │ ← el cuerpo, en el centro del
+│                                │    hueco libre
+│ Saturno          Ver ficha ⌃ × │ ← la barra fina (≤ 12 %): un botón
+│ Planeta · Radio ecuatorial: …  │    que abre la hoja (y se desliza)
+│ (▶) 24 oct 2026, 02:00 ──●─ [⚙]│
+└────────────────────────────────┘
+```
+En el teléfono (< 768 px), con un planeta con lunas elegido y la ficha cerrada, la fila es la de su sistema; en la tableta, como en el PC, dos filas:
+```
+┌────────────────────────────────┐
+│ ‹ Sistema solar  Saturno ≡ Menú│ ← la franja del cuerpo elegido
 │              …                 │
 │ (♄) │ [◐ Mimas] [◐ Encélado] → │ ← el planeta, una raya y sus
 │ Sat.│                          │    lunas en pastillas (desplazable)
 │ (▶) 24 oct 2026, 02:00 ──●─ [⚙]│
 └────────────────────────────────┘
 ```
-- **La ficha** es una hoja de dos alturas encima de la barra (que sigue a la vista: reproducir y pausar, siempre a mano): en reposo, como mucho el 45 % de la pantalla, con el nombre, el resumen, «Ficha completa» y «Ver los datos»; subida, los datos y sus fuentes.
+- **La ficha** (decisión de Iván del 08-11: la hoja en reposo era «muy invasora»): al elegir un cuerpo, solo una barra fina encima de la barra de tiempo, con el nombre, el tipo y el radio, «Ver ficha» y × (como mucho el 12 % de la pantalla). Es un botón con `aria-expanded` que abre la hoja: un toque, Intro o deslizarla hacia arriba. La hoja, a media pantalla, con el resumen, «Ficha completa» y «Ver los datos» (que la sube entera, con los datos y sus fuentes); deslizarla hacia abajo, o Esc, la devuelve a la barra. El foco va a la barra al elegir el cuerpo; al abrir la hoja, a su contenido; Esc lo devuelve a la barra. Reproducir y pausar, siempre a mano, debajo.
+- **Arriba, con un cuerpo elegido, una sola franja:** «‹ Sistema solar», el nombre y «Menú», en la cabecera del sitio (de 3 rem), en lugar de la cabecera y las pestañas. La presentación se recoge: el H1 y su tipo, solo para el lector; la autoría, fuera.
 - **El índice y «Controles»** suben como hojas, con su título y su botón de cerrar. Lo que tapan sale del orden del foco. «Controles» es una hoja baja, como mucho el 45 % de la pantalla (lo demás se desplaza dentro): el 3D se ve encima mientras se usa, y la cámara aparta el cuerpo por encima de ella. En un teléfono bajo, deja al menos unos 150 px de 3D bajo el título; en horizontal (o con el zoom al 200 %), es un panel a la derecha, de debajo de las pestañas a la barra, con el 3D a su izquierda.
 - **Tierra y Luna:** en el teléfono, sin fichas (en el título, «‹ Sistema solar»); su panel en una fila (las vistas, desplazables, y «Más» para el resto) y la barra plegada a reproducir, la fecha y «Controles». **El Cielo:** el lugar (su nombre corto, «Montsec (Lleida)») con «Usar mi ubicación» debajo (en la tableta, a su lado), la hora y una línea de resumen; «Esta noche», a demanda (con su marcador de abierto o cerrado), con la tabla en dos líneas por fila si no cabe en su caja (también en la columna del escritorio); en el teléfono, sin fichas.
 - **En los teléfonos bajos** (en horizontal o con el zoom al 200 %), la página se desplaza: al llegar se ven el lienzo y, justo debajo, la barra con su pausa.

diff --git a/docs/decisiones/FASE-9c-INTERFAZ.md b/docs/decisiones/FASE-9c-INTERFAZ.md
@@ -169,6 +169,7 @@ Se miden con un script de la fase (`scripts/measure-ui.mjs` o parecido; los scri
   - en el móvil, ≤ 16 en cualquier vista.
   - **Cambio del 07-11 (decisión de Iván):** con un cuerpo elegido en escritorio, ≤ 32 (en lugar de ≤ 30). Planetas y lunas vuelven a distinguirse en el selector de abajo: en el PC y la tableta, dos filas (los planetas, redondos con el nombre debajo; encima, las lunas del sistema elegido, en pastillas con la miniatura y el nombre al lado), también en las vistas Tierra y Luna; en el móvil, una sola fila (el planeta, una raya y sus lunas) con «‹ Sistema solar» para volver.
 - [ ] **La hoja del cuerpo en el móvil, en reposo:** ≤ 45 % de la pantalla, con el cuerpo visible y la pausa a mano (e2e).
+  - **Cambio del 08-11 (decisión de Iván; sustituye al criterio de arriba):** en el móvil y la tableta, al elegir un cuerpo, solo una barra fina encima de la barra de tiempo (el nombre, el tipo, un dato clave, «Ver ficha» y ×), y la hoja, a demanda; arriba, una sola franja con «‹ Sistema solar» y el nombre. Con un cuerpo elegido, la barra fina ≤ 12 % de la pantalla; la interfaz en reposo tapa como mucho el 30 % (zona útil del 3D ≥ 70 %) a 390 y a 768; y el cuerpo, centrado en el hueco libre.
 - [ ] **Los gestos:** el e2e de 9c.1 en verde a 390 y 768.
 - [ ] **Sin solapes:** el script de 9c.4 sin fallos en los cuatro tamaños.
 - [ ] **Zonas táctiles:** 44×44 en el explorador en el móvil y ≥ 24×24 en todas las páginas; nada legible por debajo de 11 px.
